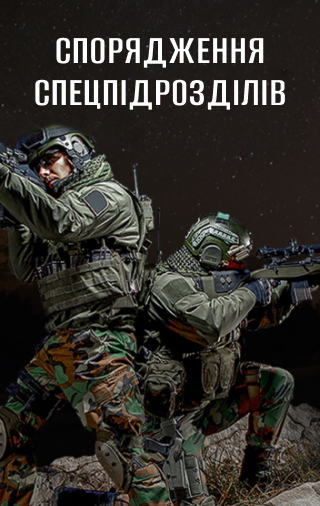
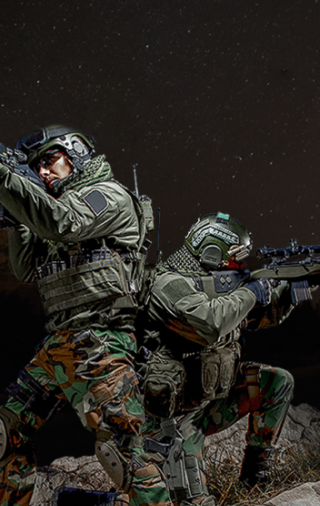
refactor slider small

Changed region(s): [[0.0938, 0.0593, 0.9062, 0.2372]]

diff --git a/index.html b/index.html
@@ -327,9 +327,12 @@
     <div id="carouselExampleControlsSmall" class="carouselExampleControlsSmall carousel slide" data-iterval="false">
         <div class="carousel-inner">
             <div class="carousel-item active">
+                <h2 class="carousel-inner_title">Спорядження
+                    спецпідрозділів</h2>
                 <img class="d-block w-100" src="images/slider/banner1_small.png" alt="Первый слайд">
             </div>
             <div class="carousel-item">
+                <h2 class="carousel-inner_title">матеріал високих технологій cor<span class="carousel-inner_title_orange">dura</span></h2>
                 <img class="d-block w-100" src="images/slider/banner2_small.png" alt="Второй слайд">
             </div>
         </div>

diff --git a/css/media_style.css b/css/media_style.css
@@ -343,7 +343,15 @@
     .carouselExampleControlsSmall {
         display: block;
     }
-
+    .carousel-inner_title{
+        position: absolute;
+        padding-top: 26px;
+        color: #FFFFFF;
+        z-index: 2;
+    }
+    .carousel-inner_title_orange{
+        color: #FCB500;
+    }
     .slider__button_link {
         display: block;
         margin-left: 15px;
